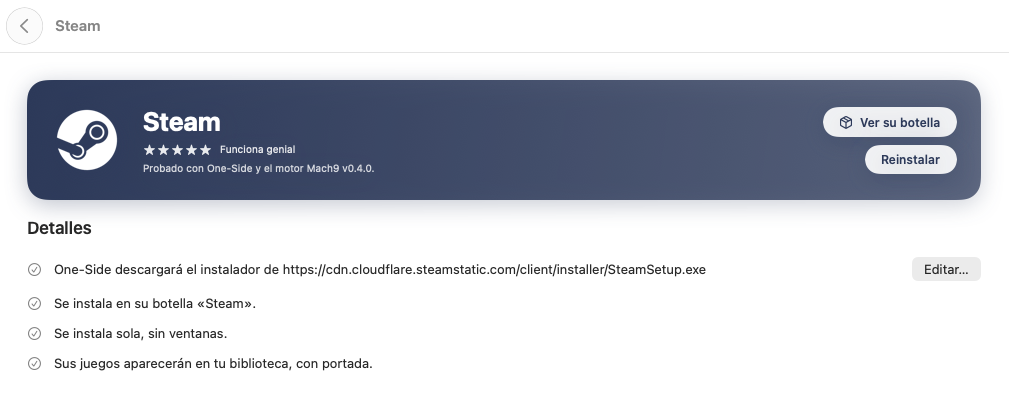
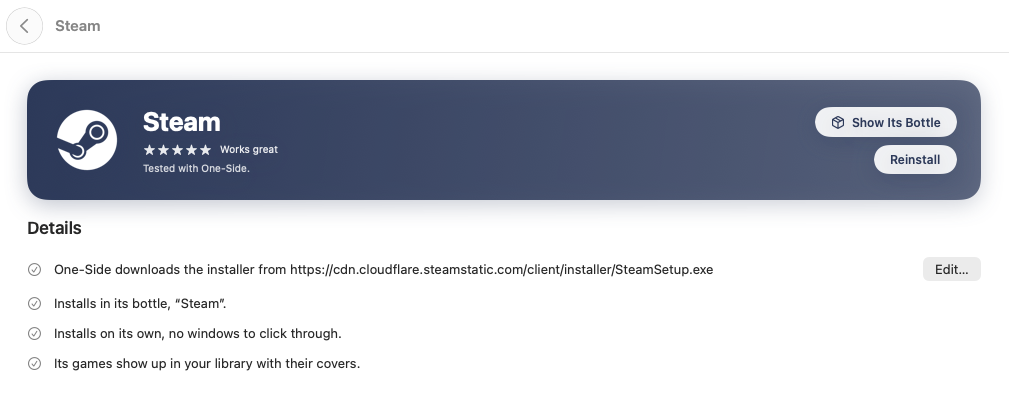
English screenshots, --check-updates, publish.sh in English
- README screenshots retaken with the English interface.
- one-side --check-updates runs the automatic update check in the terminal.
- publicar.sh is now publish.sh, with its messages and the publisher template in English.

diff --git a/src/main.rs b/src/main.rs
@@ -52,6 +52,7 @@ fn cli() -> Option<i32> {
             println!("  --install-app file:<path> <name>      Installs from your own .exe or .msi");
             println!("  --winetricks <bottle> <verbs…>        Installs dependencies in a bottle");
             println!("  --accept                              You accept the terms of what installs without its own installer");
+            println!("  --check-updates                       Updates One-Side and what it downloads, now");
             println!("  -h, --help                            This help");
             Some(0)
         }
@@ -161,6 +162,15 @@ fn cli() -> Option<i32> {
                     Some(1)
                 }
             }
+        }
+        // What the automatic updates do, now, in the terminal.
+        Some("--check-updates") => {
+            let (done, later) = one_side::update::check(&|s| eprintln!("{s}"));
+            println!("updated: {}", if done.is_empty() { "nothing".into() } else { done.join(", ") });
+            if !later.is_empty() {
+                println!("waiting for closed bottles: {}", later.join(", "));
+            }
+            Some(0)
         }
         Some("--update-fixes") => match fixes::update() {
             Ok(db) => {

diff --git a/legal/LEGAL.md b/legal/LEGAL.md
@@ -148,7 +148,7 @@ One-Side is published as an **open source project on GitHub**:
 - **Builds in "Releases":**
   - They can go up without notarization; the README explains the macOS warning.
     Notarizing isn't a legal requirement.
-  - To notarize them, run `./publicar.sh`. It needs `legal/PUBLISHER.txt`, a Developer
+  - To notarize them, run `./publish.sh`. It needs `legal/PUBLISHER.txt`, a Developer
     ID and a `notarytool` profile, and stops if anything is missing. It signs with the
     hardened runtime and a timestamp, notarizes, staples the ticket and checks it with
     `spctl`.

diff --git a/README.md b/README.md
@@ -90,6 +90,7 @@ The app ships a small helper used by Dock shortcuts and for testing. To build th
   --install-app file:<path> <name>      Installs from your own .exe or .msi
   --winetricks <bottle> <verbs…>        Installs dependencies in a bottle
   --accept                              You accept the terms of what installs without its own installer
+  --check-updates                       Updates One-Side and what it downloads, now
   -h, --help                            This help
 ```
 
